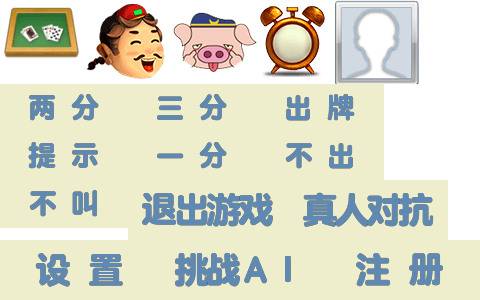
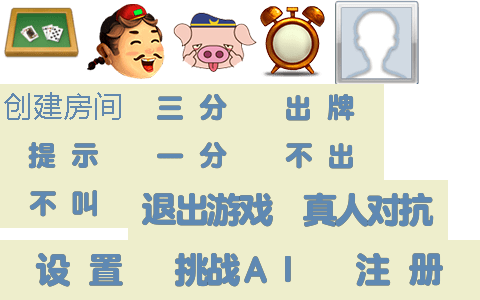
add Room manager page

Changed region(s): [[0.0, 0.3, 0.25, 0.42]]

diff --git a/src/static/js/game.js b/src/static/js/game.js
@@ -29,14 +29,19 @@ PG.Game.prototype = {
 	create: function () {
         this.stage.backgroundColor = '#182d3b';
 
-        this.players.push(PG.createPlay(0, this));
-        this.players.push(PG.createPlay(1, this));
-        this.players.push(PG.createPlay(2, this));
+        if (this.roomId == 1) {
+          this.players.push(PG.createPlay(0, this));
+          this.players.push(PG.createPlay(1, this));
+          this.players.push(PG.createPlay(2, this));
 
-        this.players[0].updateInfo(PG.playerInfo.uid, PG.playerInfo.username);
+          this.players[0].updateInfo(PG.playerInfo.uid, PG.playerInfo.username);
+          this.createTitleBar();
+
+        } else {
+            this.onRoomMrg();
+        }
         PG.Socket.connect(this.onopen.bind(this), this.onmessage.bind(this), this.onerror.bind(this));
 
-        this.createTitleBar();
 	},
 
 	onopen: function() {
@@ -130,7 +135,7 @@ PG.Game.prototype = {
 
                 this.whoseTurn = this.uidToSeat(winner);
                 function gameOver() {
-                    alert(this.players[this.whoseTurn].isLandlord ? "帅的赢" : "漂亮的赢");  
+                    alert(this.players[this.whoseTurn].isLandlord ? "帅的赢" : "漂亮的赢");
                     this.state.start('MainMenu');
                 }
                 this.game.time.events.add(1000, gameOver, this);
@@ -344,16 +349,17 @@ PG.Game.prototype = {
     },
 
     createTableLayer: function (tables) {
-        tables.push([-1, 0]);
-
-        var group = this.game.add.group();
-        this.game.world.bringToTop(group);
+        //tables.push([-1, 0]);
+        if (this.tablelistgroup != null) {
+          this.tablelistgroup.destroy();
+        }
+        this.tablelistgroup = this.game.add.group();
+        this.game.world.bringToTop(this.tablelistgroup);
         var gc = this.game.make.graphics(0, 0);
         gc.beginFill(0x00000080);
         gc.endFill();
-        group.add(gc);
+        this.tablelistgroup.add(gc);
         var style = {font: "22px Arial", fill: "#fff", align: "center"};
-
         for (var i = 0; i < tables.length; i++) {
             var sx = this.game.world.width * (i%6 + 1)/(6 + 1);
             var sy = this.game.world.height * (Math.floor(i/6) + 1)/(4 + 1);
@@ -361,15 +367,16 @@ PG.Game.prototype = {
             var table = this.game.make.button(sx, sy, 'btn', this.onJoin, this, 'table.png', 'table.png', 'table.png');
             table.anchor.set(0.5, 1);
             table.tableId = tables[i][0];
-            group.add(table);
+            this.tablelistgroup.add(table);
 
             var text = this.game.make.text(sx, sy, '房间:' + tables[i][0] + '人数:' + tables[i][1], style);
             text.anchor.set(0.5, 0);
-            group.add(text);
+            this.tablelistgroup.add(text);
 
-            if (i == tables.length - 1) {
+            /*if (i == tables.length - 1) {
                 text.text = '新建房间';
-            }
+            }*/
+
         }
     },
 
@@ -389,5 +396,96 @@ PG.Game.prototype = {
             this.send_message([PG.Protocol.REQ_JOIN_TABLE, btn.tableId]);
         }
         btn.parent.destroy();
+    },
+
+    onRoomMrg: function () {
+        var style = {
+            font: '24px Arial', fill: '#000', width: 100, padding: 12,
+            borderWidth: 1, borderColor: '#c8c8c8', borderRadius: 2,
+            textAlign: 'center', placeHolder: '玩家人数'
+            // type: PhaserInput.InputType.password
+        };
+        this.game.add.plugin(PhaserInput.Plugin);
+        var startX = (this.game.world.width) / 8;
+        var startY = (this.game.world.height) -80;
+        this.playerNums = this.game.add.inputField(startX, startY, style);
+
+        style.placeHolder = '几副牌';
+        this.pokerNums = this.game.add.inputField(startX + 140, startY, style);
+
+        var style = {font: "22px Arial", fill: "#f00", align: "center"};
+        this.errorText = this.game.add.text(startX + 120, startY - 30, '', style);
+        this.errorText.anchor.set(0.5, 0);
+
+        this.login = this.game.add.button(startX + 380, startY +25, 'btn', this.onRegRoom, this, 'score_2.png', 'score_2.png', 'score_2.png');
+        this.login.anchor.set(0.5);
+    },
+
+    onRmCreateView: function () {
+      this.playerNums.kill();
+      this.playerNums.destroy()
+      this.pokerNums.kill();
+      this.pokerNums.destroy()
+      this.login.kill();
+      this.login.destroy()
+      if (this.tablelistgroup != null) {
+        this.tablelistgroup.destroy();
+      }
+      this.players.push(PG.createPlay(0, this));
+      this.players.push(PG.createPlay(1, this));
+      this.players.push(PG.createPlay(2, this));
+
+      this.players[0].updateInfo(PG.playerInfo.uid, PG.playerInfo.username);
+
+      this.createTitleBar();
+    },
+
+    onRegRoom: function () {
+        if (!this.playerNums.value) {
+            this.playerNums.startFocus();
+            this.errorText.text = '请输入玩家人数';
+            return;
+        }
+        if (this.playerNums.value > 10) {
+            this.playerNums.startFocus();
+            this.errorText.text = '玩家人数太多';
+            return;
+        }
+        if (!this.pokerNums.value) {
+            this.pokerNums.startFocus();
+            this.errorText.text = '请输入需要几副扑克';
+            return;
+        }
+        if (this.pokerNums.value > 4) {
+            this.pokerNums.startFocus();
+            this.errorText.text = '扑克数量太多';
+            return;
+        }
+
+        this.onRmCreateView();
+        this.send_message([PG.Protocol.REQ_NEW_TABLE, [4,2]]);
+        /*var httpRequest = new XMLHttpRequest();
+        var that = this;
+        httpRequest.onreadystatechange = function () {
+            if (httpRequest.readyState === XMLHttpRequest.DONE) {
+                if (httpRequest.status === 200) {
+                    if (httpRequest.responseText == '1') {
+                        that.errorText.text = '该用户名已经被占用';
+                    } else {
+                        PG.playerInfo = JSON.parse(httpRequest.responseText);
+                        that.state.start('MainMenu');
+                    }
+                } else {
+                    console.log('Error:' + httpRequest.status);
+                    that.errorText.text = httpRequest.responseText;
+                }
+            }
+        };
+        httpRequest.open('POST', '/reg', true);
+        httpRequest.setRequestHeader('Content-Type', 'application/x-www-form-urlencoded');
+        httpRequest.setRequestHeader('X-Csrftoken', PG.getCookie("_xsrf"));
+
+        var req = 'username=' + encodeURIComponent(this.username.value) + '&password=' + encodeURIComponent(this.password.value);
+        httpRequest.send(req);*/
     }
 };
